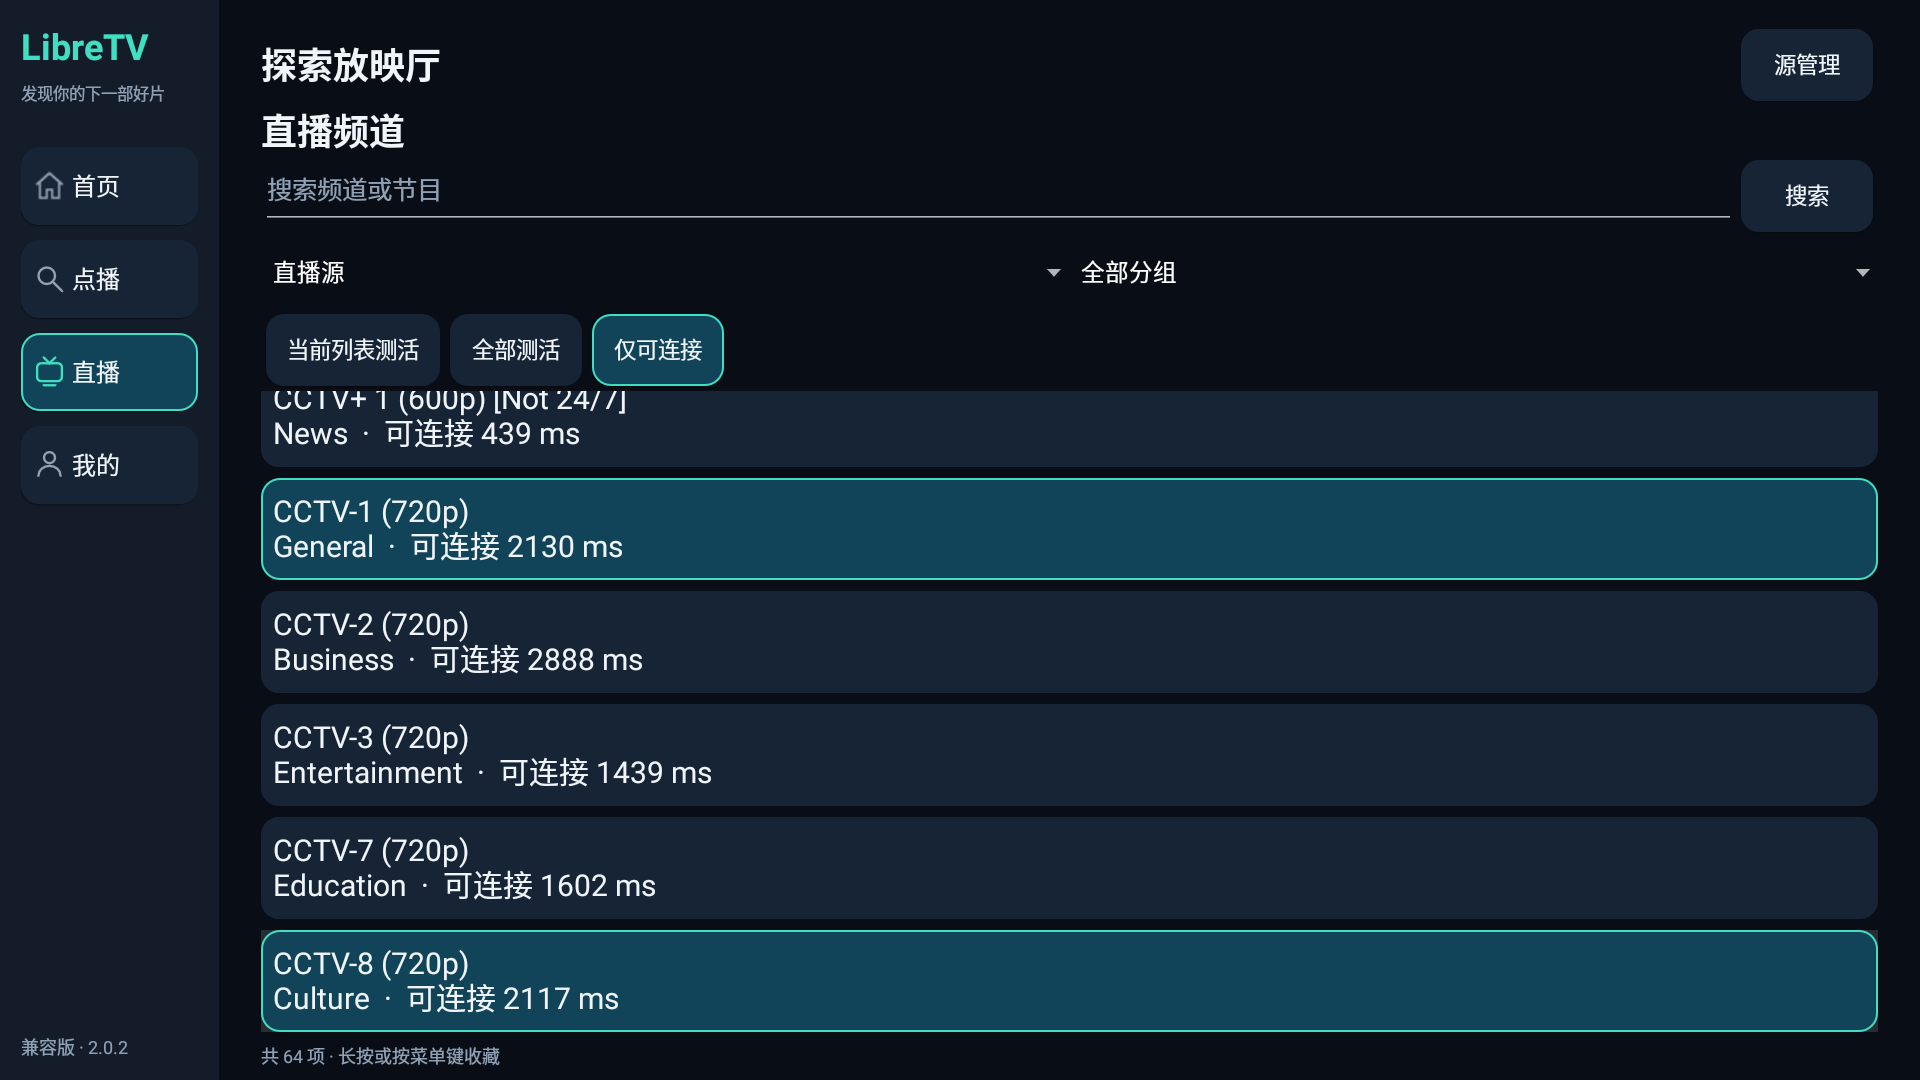
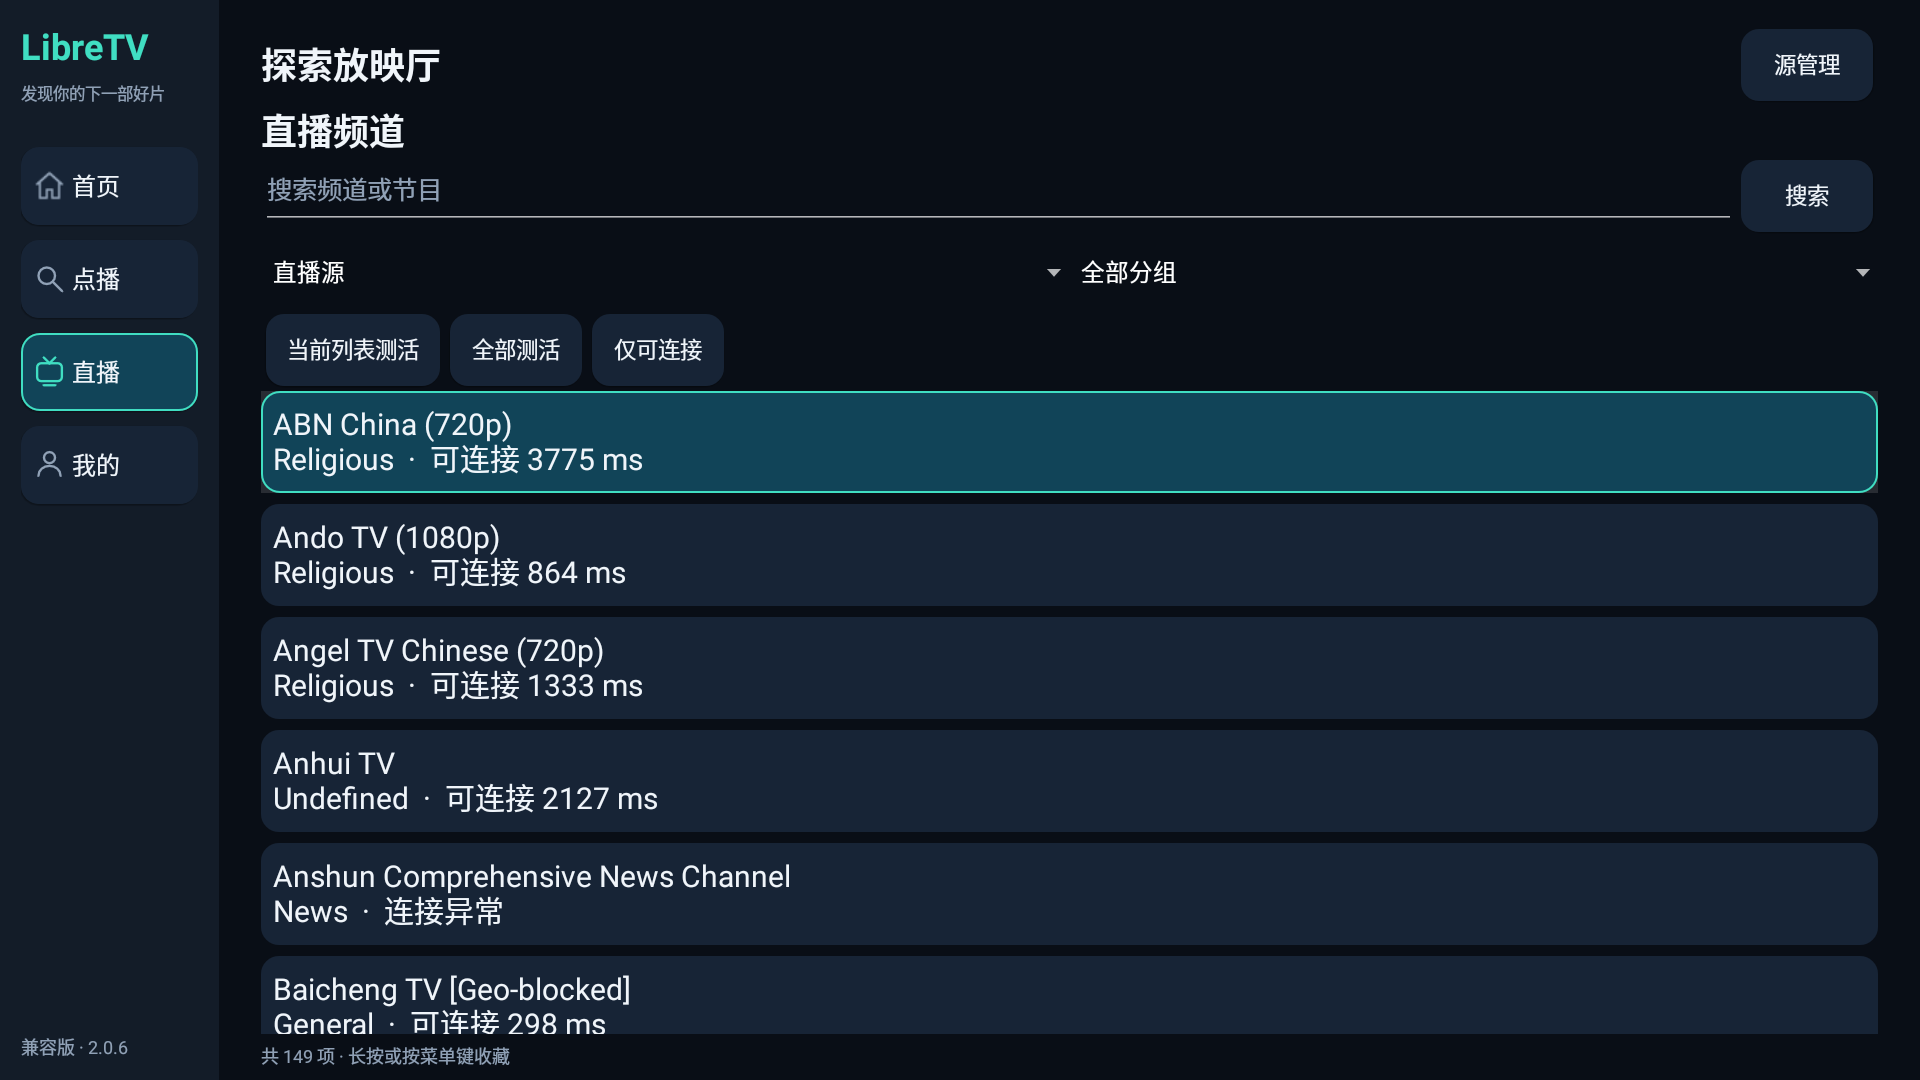
Bring the repository docs up to date with the 2.0.6 release
The privacy notice still claimed to cover Android 2.0.0 and the Windows release notes still pointed at the long superseded Android 1.0.1. Both now name 2.0.6, and the Windows notes link straight to the current Android release page. The television screenshots are retaken from the published 2.0.6 build so the captions match what the pictures actually show.

Changed region(s): [[0.125, 0.275, 1.0, 1.0]]

diff --git a/desktop/RELEASE.md b/desktop/RELEASE.md
@@ -1,6 +1,6 @@
 # LibreTV-App Windows 免安装版 v2.19.2-desktop.2
 
-2026-10-23 更新下载包中的源配置：现含 **7 个点播源、9 个直播源**。本次为数据更新，EXE 仍为 2.19.2-desktop.2。Android 手机 / TV 通用版 1.0.1 同步更新。
+2026-10-23 更新下载包中的源配置：现含 **7 个点播源、9 个直播源**。本次为数据更新，EXE 仍为 2.19.2-desktop.2。Android 手机 / TV 通用版另行发布，当前为 2.0.6。
 
 ## 下载
 
@@ -27,7 +27,7 @@ ZIP 内另附 `LibreTV-Sources.json`，供迁移、托管订阅或导入 Android
 - 修复内置服务没有跟随 Windows 系统代理/PAC、导致部分 M3U 订阅下载失败的问题。
 - 保留逐跳目标校验，兼容重定向、Range、流式传输和超时中断。
 - 本地数据随 EXE 保存，便于备份和迁移。
-- Android 1.0.1 已发布，兼容手机及 Android TV。
+- Android 通用版当前为 2.0.6，兼容手机及 Android TV：https://github.com/wangshaojie/LibreTV-App/releases/tag/android-v2.0.6
 
 在线内容需要联网，线路是否可播取决于网络、地区、源站和编码。本构建未做数字签名。
 

diff --git a/android/PRIVACY.md b/android/PRIVACY.md
@@ -1,6 +1,6 @@
 # LibreTV-App Android 隐私说明
 
-更新日期：2026-10-23。适用于 Android 2.0.0 的兼容版和新版。
+更新日期：2026-10-24。适用于 Android 2.0.6 的兼容版和新版。
 
 应用无需账号，不集成广告、统计或遥测 SDK。源配置、收藏、观看记录、续播进度、搜索历史和测活结果保存在当前设备的应用私有目录。
 
